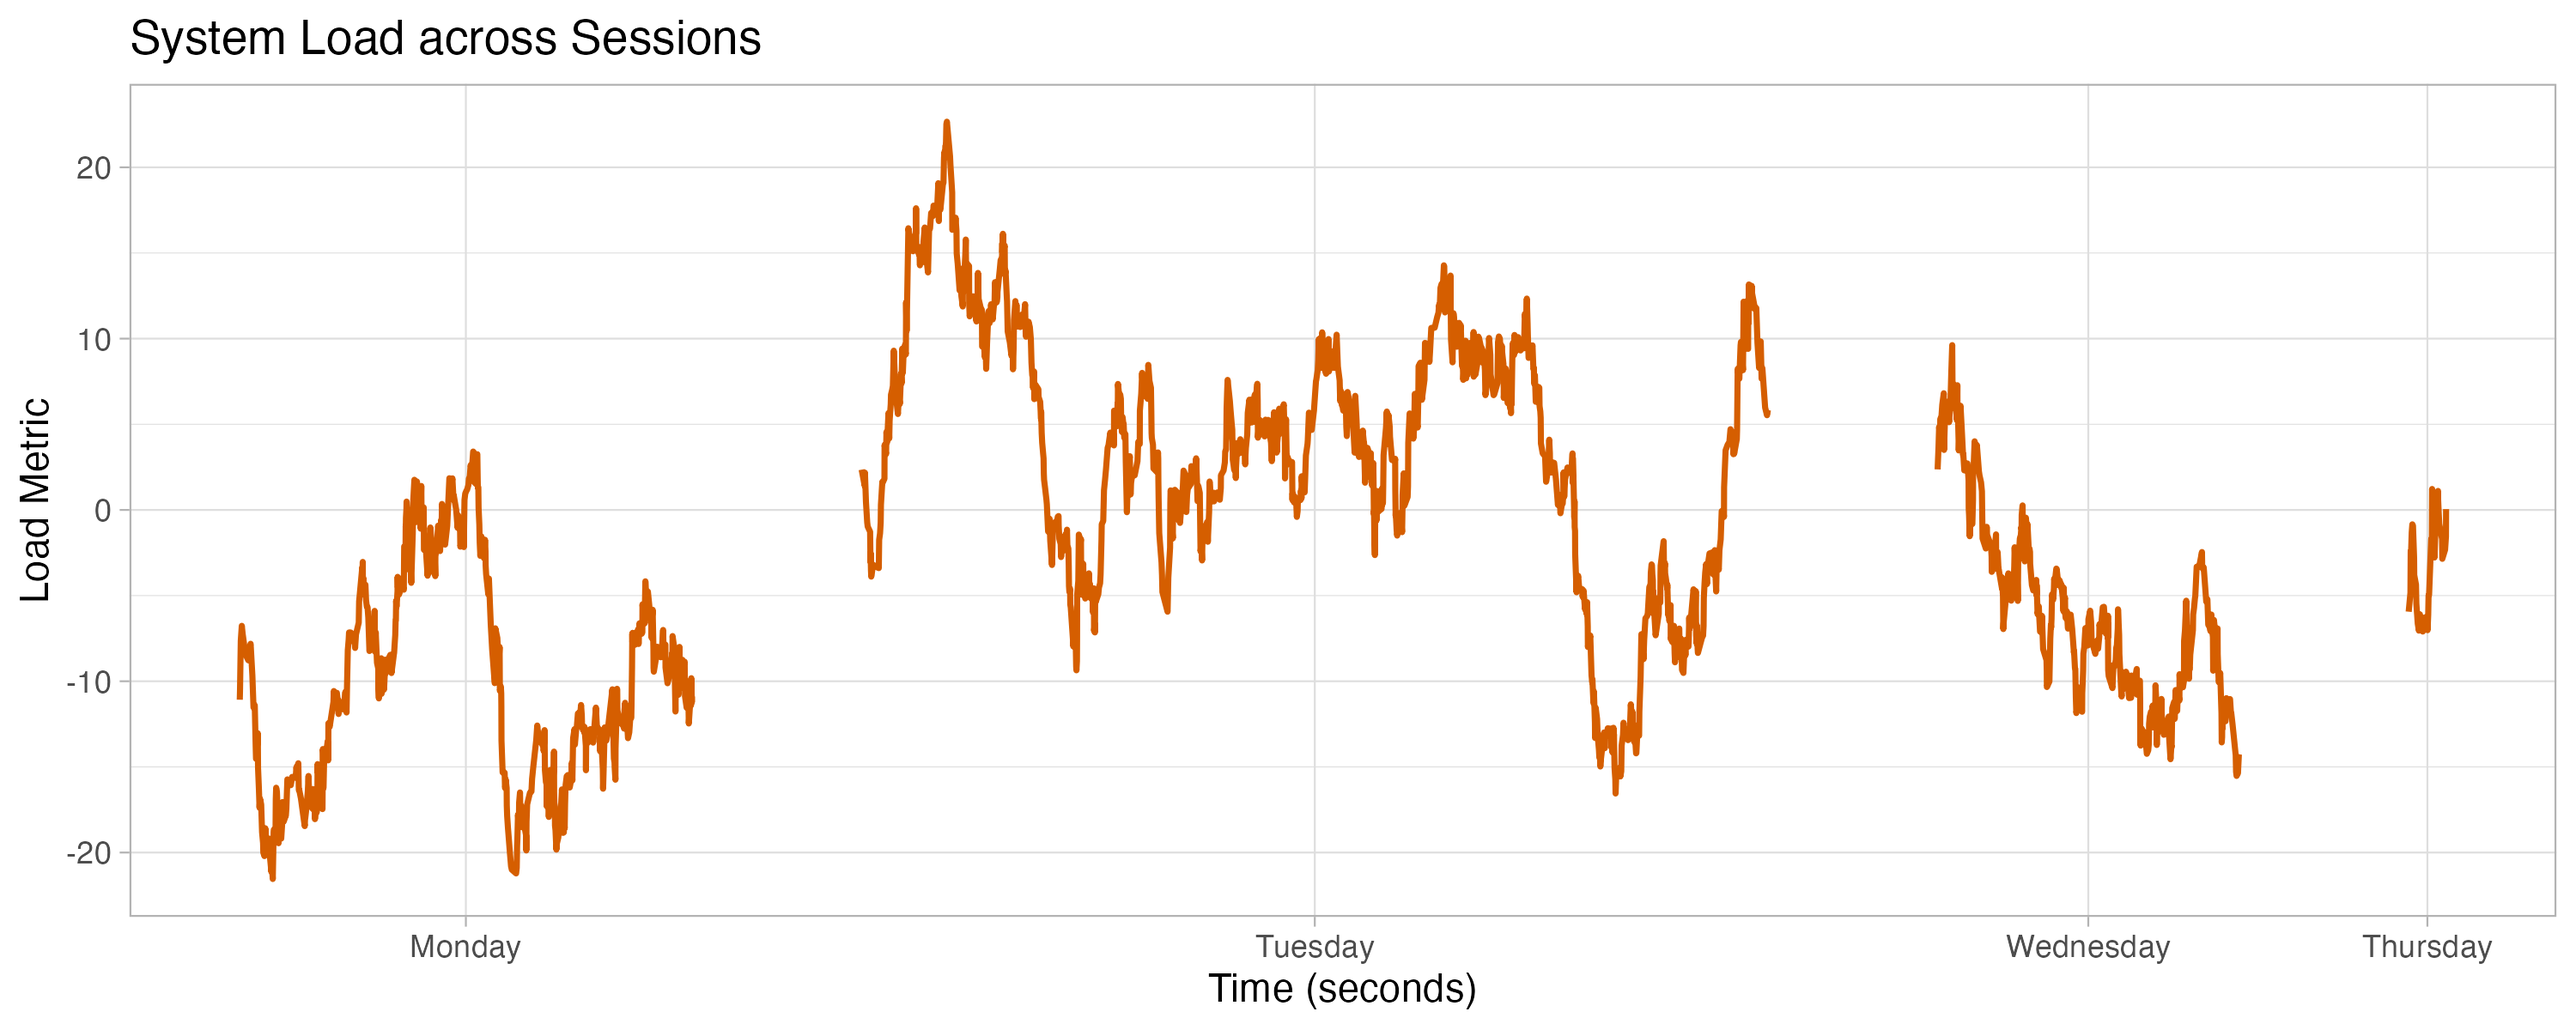
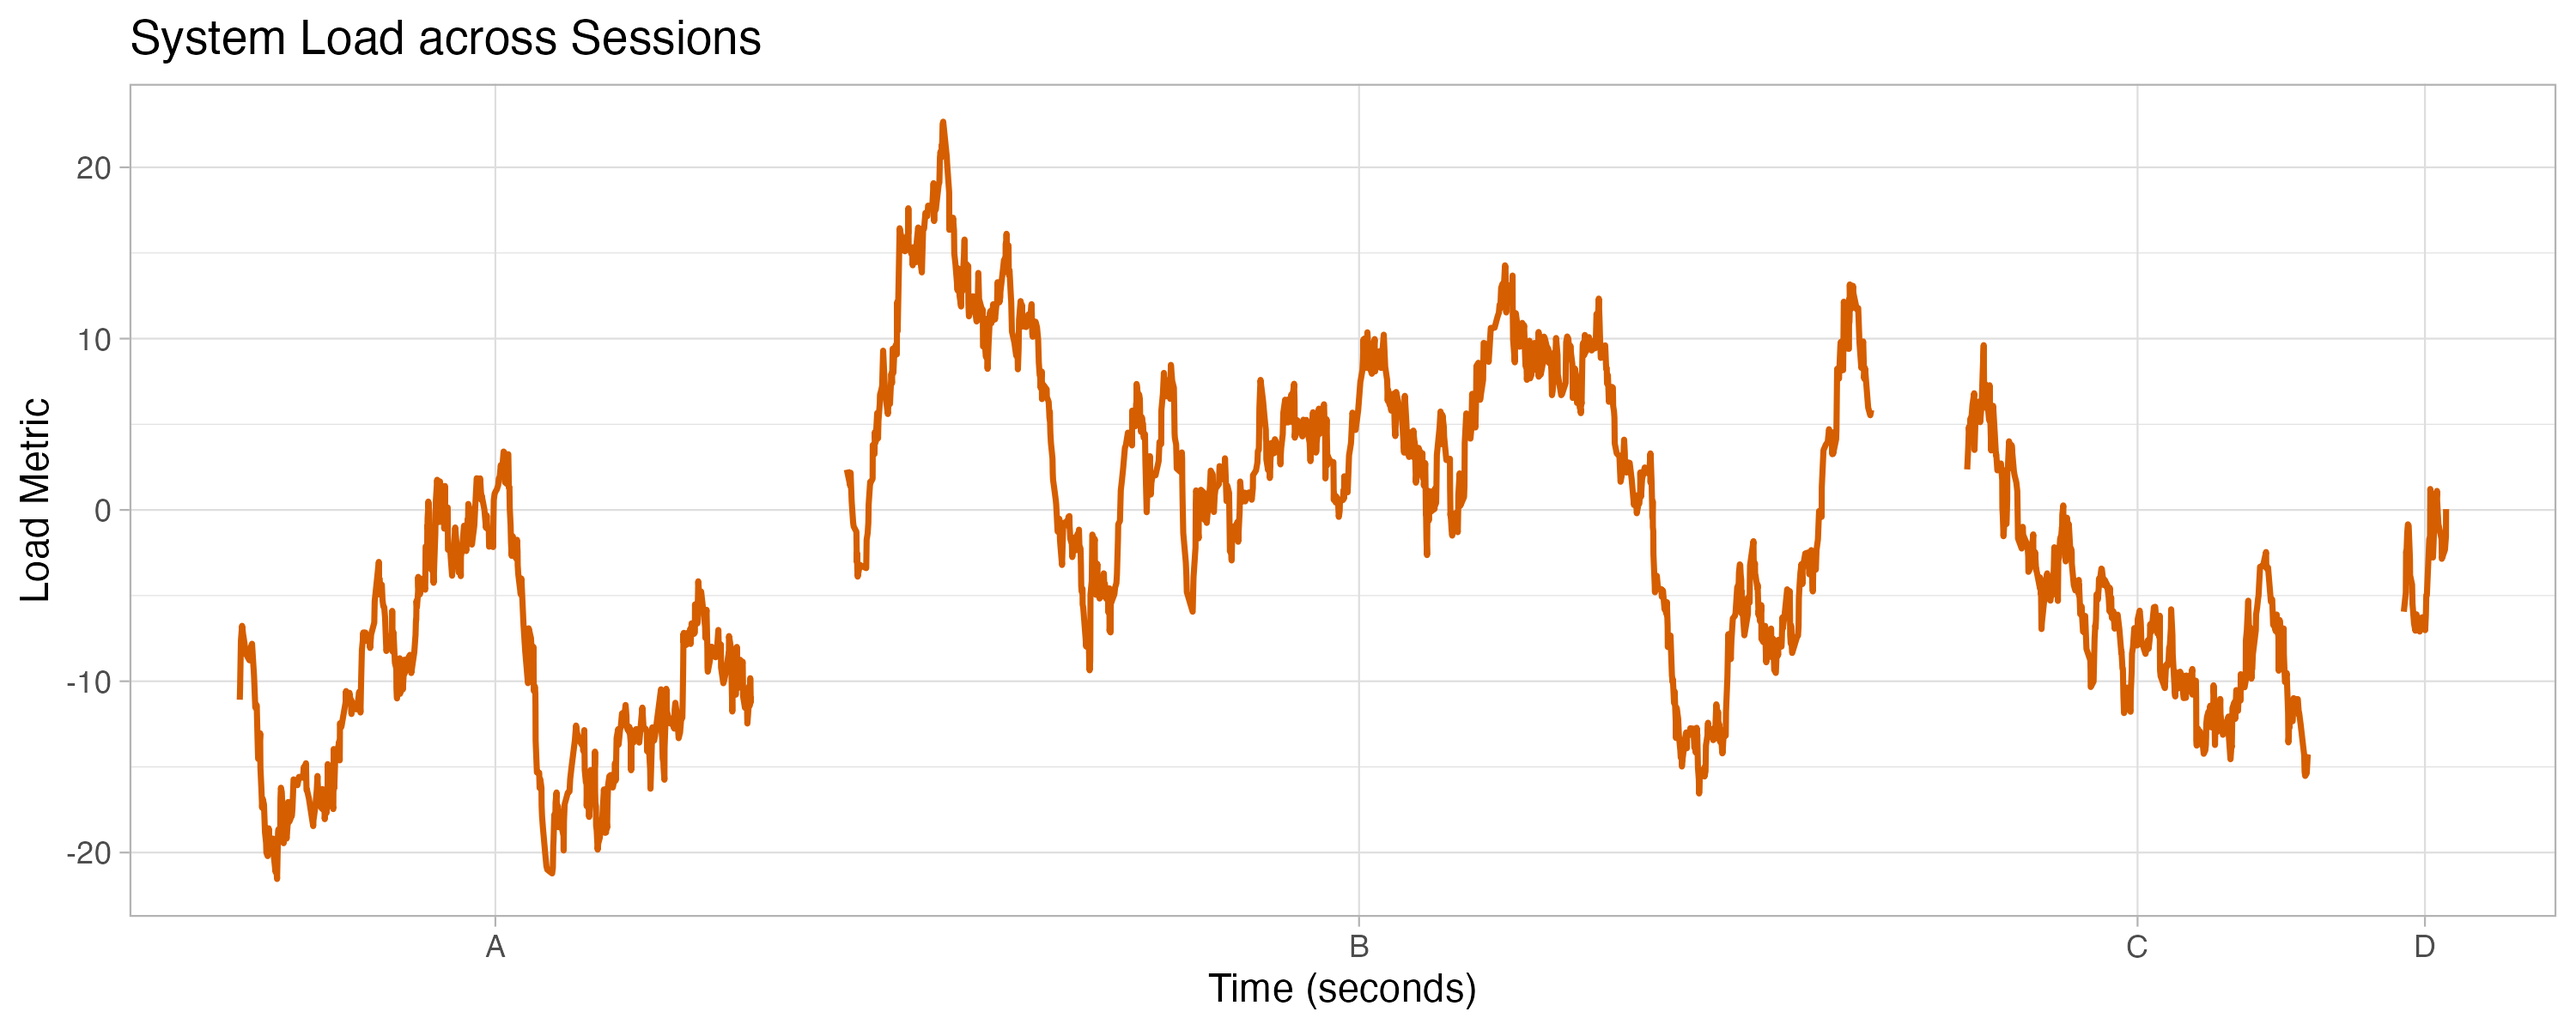
simplify session example: domains A-D and smaller gap

diff --git a/README.md b/README.md
@@ -63,7 +63,7 @@ ggplot(exon_data, aes(x = position, y = log10p, domain = domain)) +
 # Simulate activity metrics for sessions with different durations (seconds)
 sessions <- simulate_serial(
     n = 2000,
-    domains = c("Monday", "Tuesday", "Wednesday", "Thursday"),
+    domains = c("A", "B", "C", "D"),
     domain_lengths = c(3600, 7200, 2400, 300)
 )
 # Add a random walk per session with randomized starting points
@@ -73,10 +73,7 @@ sessions$metric <- ave(rnorm(nrow(sessions)), sessions$domain, FUN = function(x)
 
 ggplot(sessions, aes(x = position, y = metric, domain = domain)) +
     geom_line(color = "#D55E00", linewidth = 0.8) +
-    coord_serial(
-        domain_gap = 0.1, 
-        domain_order = c("Monday", "Tuesday", "Wednesday", "Thursday")
-    ) +
+    coord_serial(domain_gap = 0.05) +
     theme_light() +
     labs(title = "System Load across Sessions", x = "Time (seconds)", y = "Load Metric")
 ```
